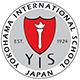
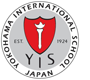
pic change

diff --git a/resume/index.md b/resume/index.md
@@ -31,7 +31,7 @@ Versed in C++, C#, Python, GLSL and other programming as well as several gaming 
 
 <figure>
     <p style="max-idth:100%; float:left; overflow:auto;">
-    <img src="../assets/img/UPC.png" alt="" style="width:80px; height:80px; float:left;"> 
+    <img src="../assets/img/UPC.png" alt="" style="width:90px; height:80px; float:left;"> 
     <pre>
       Bachelor of Science: Videogame Development and Engineering<br />
       Centre de la Imatge i Tecnologia Multimedia | CITM (UPC) - Terrassa 2019<br />
@@ -42,7 +42,7 @@ Versed in C++, C#, Python, GLSL and other programming as well as several gaming 
 
 <figure>
     <p style="max-idth:100%; float:left; overflow:auto;">
-    <img src="../assets/img/PIA.png" alt="" style="width:80px; height:80px; float:left;">    
+    <img src="../assets/img/PIA.png" alt="" style="width:90px; height:80px; float:left;">    
       High School Diploma: High School<br />
       Escola Pia Nostra Senyora 2014<br />
       Barcelona, Barcelona<br />
@@ -51,7 +51,7 @@ Versed in C++, C#, Python, GLSL and other programming as well as several gaming 
 
 <figure>
     <p style="max-idth:100%; float:left; overflow:auto;">
-    <img src="../assets/img/YIS.png" alt="" style="width:80px; height:80px; float:left;">    
+    <img src="../assets/img/YIS.png" alt="" style="width:90px; height:80px; float:left;">    
       Middle School<br />
       Yokohama International School 2009<br />
       Yokohama, Tokyo<br />
